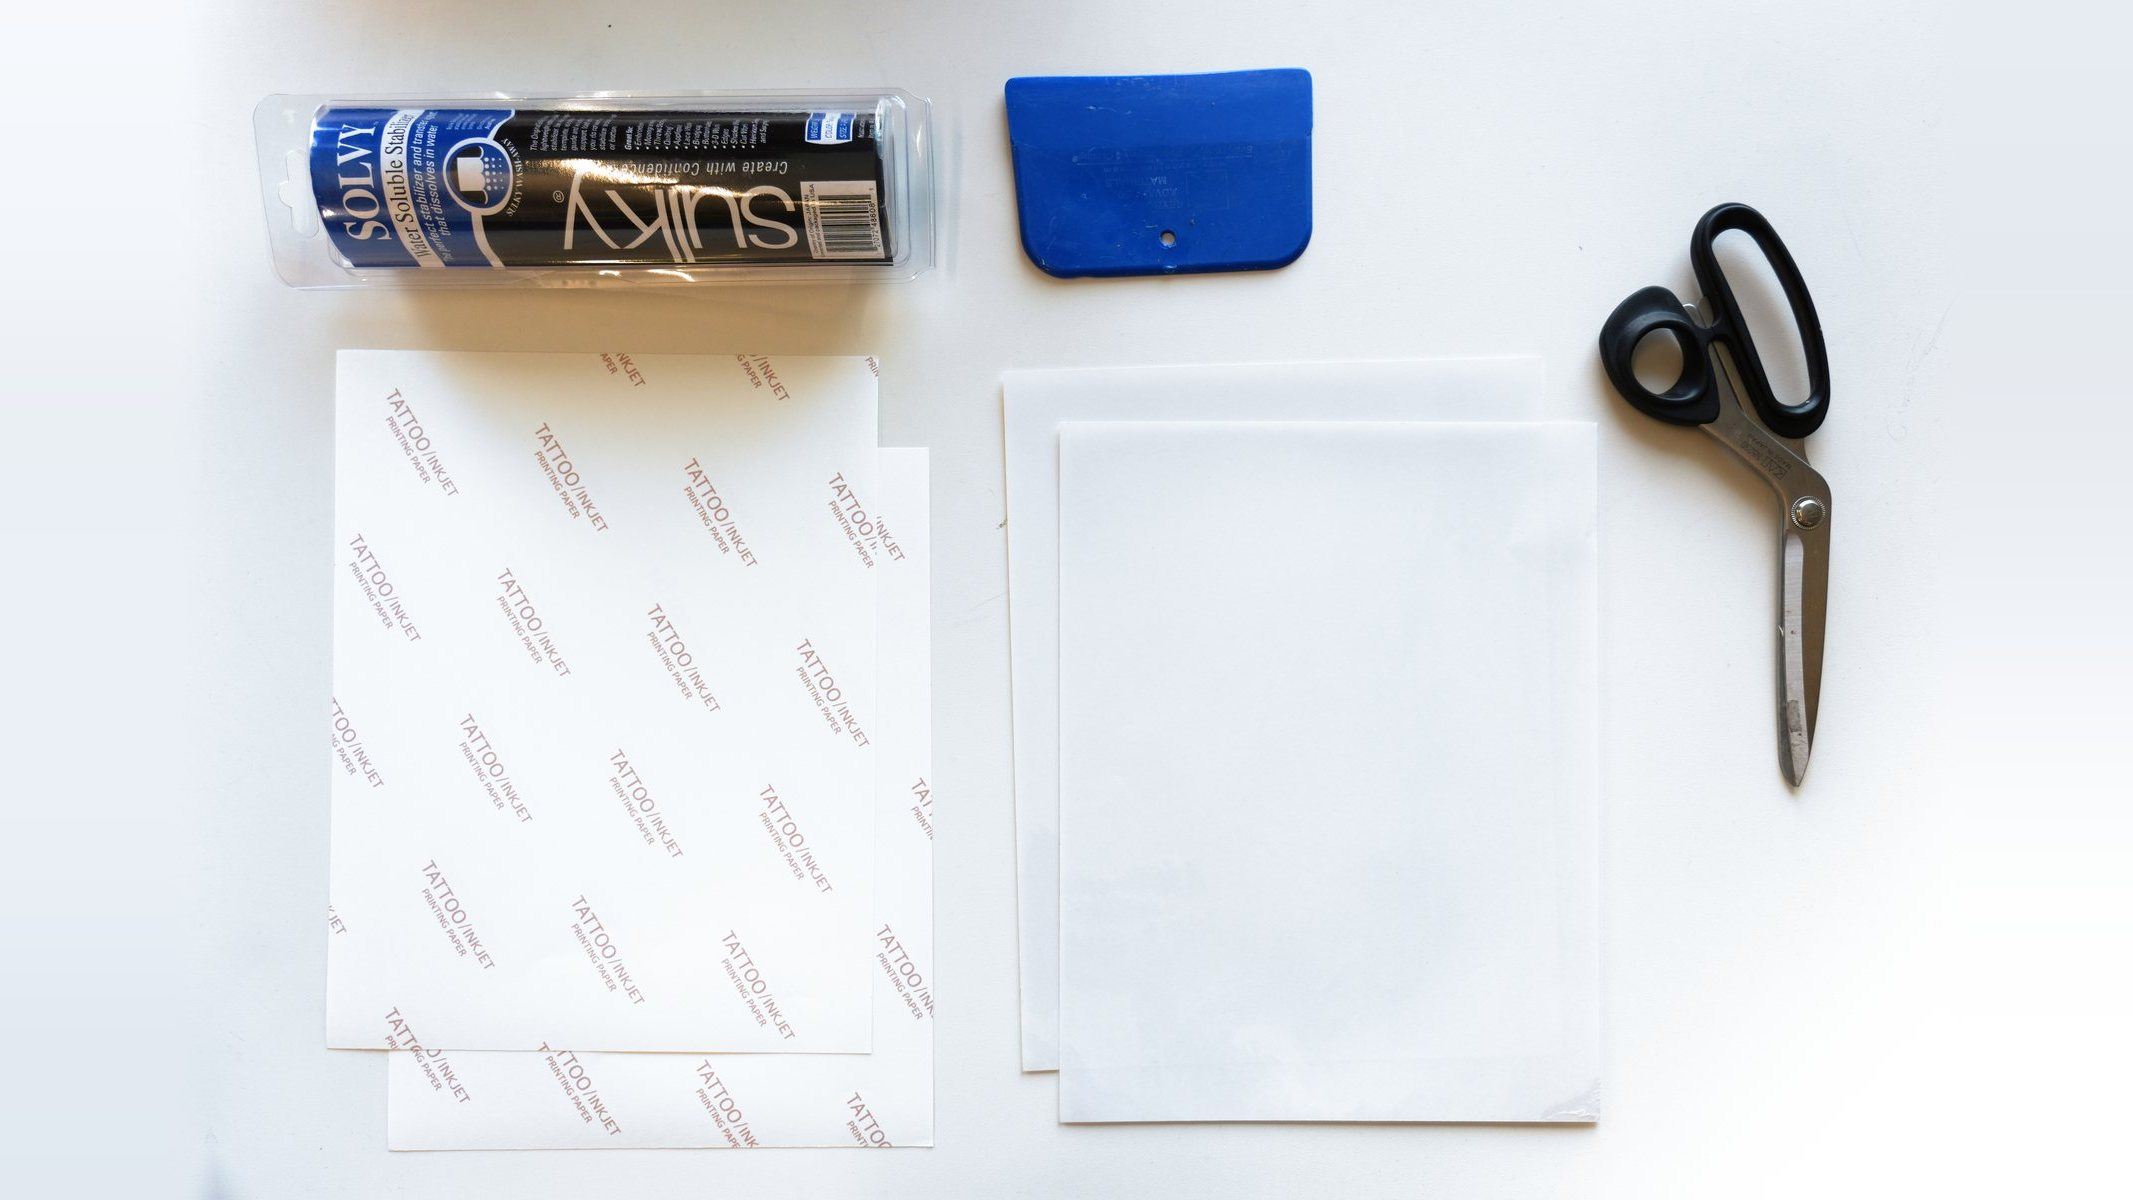
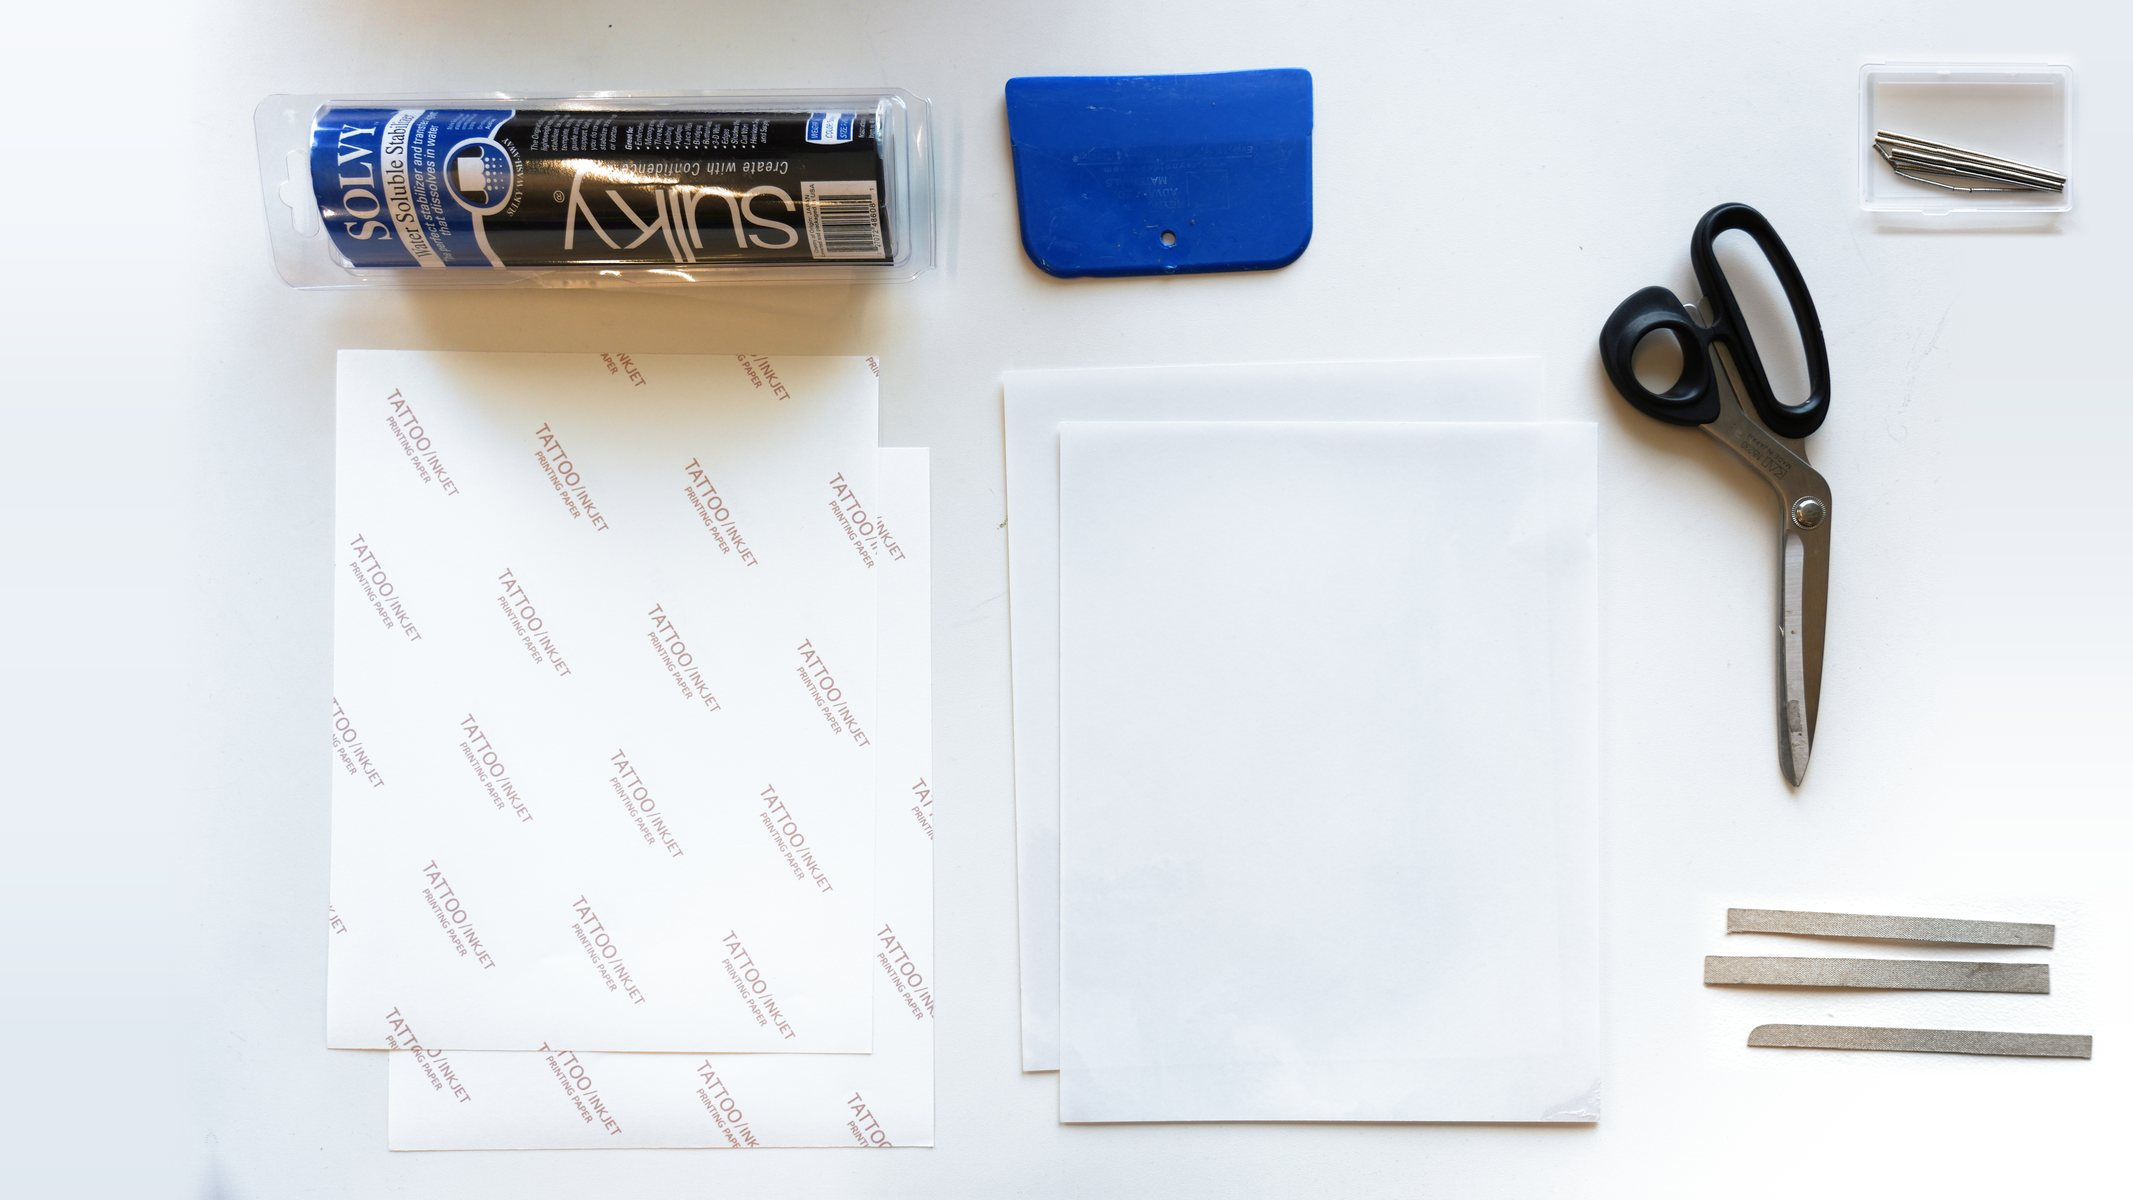
Composite magnets and conductive tape into make overview; move Done next to step title; drop mirror and decorations (#6)
Claude-Session: https://claude.ai/code/session_01WudS1B1csvbb2Nrs86TABJ

diff --git a/content.js b/content.js
@@ -115,9 +115,7 @@ window.SKINKIT = {
       { name: "Circuit modules", note: "The colored blocks, 2 × 2 cm each.", image: "images/mat-circuit-modules.jpg" },
       { name: "Wire modules", note: "Diamond pieces of skin cloth with three metal lines and magnets." },
       { name: "Double-sided tape", note: "Regular tape to fix your layout, and medical-grade tape (e.g. Vapon clear tape) for your skin.", image: "images/mat-tape.jpg" },
-      { name: "Scissors and tweezers", note: "Tweezers help separate the tiny magnets." },
-      { name: "Mirror", note: "To check the placement on your body." },
-      { name: "Decorations (optional)", note: "Washi tape, stickers, gems, markers." }
+      { name: "Scissors and tweezers", note: "Tweezers help separate the tiny magnets." }
     ]
   },
 
@@ -141,7 +139,9 @@ window.SKINKIT = {
           { item: "Plastic scraper", x: 47, y: 4, w: 15, h: 19 },
           { item: "Temporary tattoo paper", x: 15, y: 28, w: 29, h: 69 },
           { label: "Adhesive sheets", text: "Come in the tattoo paper package. One goes on the shiny side of each tattoo paper.", image: "images/mat-adhesive.jpg", x: 47, y: 29, w: 28, h: 66 },
-          { label: "Scissors", text: "For cutting the stabilizer to the size of the paper.", x: 74, y: 16, w: 12, h: 51 }
+          { label: "Scissors", text: "For cutting the stabilizer to the size of the paper.", x: 74, y: 16, w: 12, h: 51 },
+          { item: "Mini magnets", x: 87.5, y: 5.3, w: 9.8, h: 13.8 },
+          { item: "Conductive fabric tape", x: 81, y: 75.8, w: 17.3, h: 12.9 }
         ]
       } },
     { chapter: "m1", shot: "1-02", title: "Add adhesive to two tattoo papers", text: "Take two sheets of temporary tattoo paper. On the shiny silicone side of each, apply the double-sided adhesive sheet that comes in the package.", tip: "", media: null },
@@ -170,7 +170,7 @@ window.SKINKIT = {
     { chapter: "u3", shot: "3-02", title: "Lay out the wire modules", text: "Fit the diamond wire modules together into the shape you want. Use the cross-shaped piece to turn a corner or split the circuit in two, and blank pieces for decoration.", tip: "", media: null },
     { chapter: "u3", shot: "3-03", title: "Pick a connection", text: "On curved spots, connect two pieces that have flaps and set the module on the flaps, so it stays connected when you bend. On flat spots, use flat pieces for a slimmer look. To extend the circuit without a module, fold a flap onto a flat piece.", tip: "", media: null },
     { chapter: "u3", shot: "3-04", title: "Preview it on your body", text: "Hold the device on your body and look in the mirror. Rearrange pieces or swap modules until you like it.", tip: "", media: null },
-    { chapter: "u3", shot: "3-05", title: "Make it permanent and decorate", text: "When the layout is final, secure the joints between wire modules with double-sided tape. Then decorate it however you like.", tip: "Keep decorations off the magnets and metal lines so the circuit still works.", media: null },
+    { chapter: "u3", shot: "3-05", title: "Make it permanent and decorate", text: "When the layout is final, secure the joints between wire modules with double-sided tape. Then, if you like, decorate it with washi tape, stickers, gems or markers.", tip: "Keep decorations off the magnets and metal lines so the circuit still works.", media: null },
     { chapter: "u3", shot: "3-06", title: "Put it on", text: "Apply medical-grade double-sided tape to the back and press the device onto clean, dry skin. Switch on the power and try it out.", tip: "", media: null },
     { chapter: "u3", shot: "3-07", title: "Take it off", text: "TODO: how to remove it gently and store the modules for reuse.", tip: "The circuit modules are reusable: unsnap them for your next project.", media: null }
   ],

diff --git a/index.html b/index.html
@@ -100,11 +100,13 @@
           <article class="sk-step">
             <p class="sk-step-meta" id="sk-step-meta"></p>
             <div class="sk-media sk-media--wide" id="sk-step-media"></div>
-            <h2 class="sk-step-title" id="sk-step-title"></h2>
+            <div class="sk-step-head">
+              <h2 class="sk-step-title" id="sk-step-title"></h2>
+              <label class="sk-done" for="sk-step-done"><input type="checkbox" id="sk-step-done"> Done</label>
+            </div>
             <p class="sk-step-text" id="sk-step-text"></p>
             <div class="sk-materials" id="sk-step-materials" hidden></div>
             <p class="sk-tip" id="sk-step-tip"></p>
-            <label class="sk-done" for="sk-step-done"><input type="checkbox" id="sk-step-done"> I did this step</label>
             <div class="sk-step-nav">
               <button class="sk-btn sk-btn--ghost" id="sk-prev" type="button">Back</button>
               <span class="sk-hint">or use the ← → keys</span>

diff --git a/style.css b/style.css
@@ -221,7 +221,9 @@
 .sk-pop--below img { grid-row: span 2; }
 .sk-tip { border-left: 1px solid var(--sk-text); padding-left: 15px; font-style: italic; }
 .sk-tip:empty { display: none; }
-.sk-done { display: inline-flex; gap: 8px; align-items: center; font-size: 14px; }
+.sk-step-head { display: flex; justify-content: space-between; align-items: baseline; gap: 16px; }
+.sk-done { display: inline-flex; gap: 6px; align-items: center; font-size: 13.5px; color: var(--sk-text); white-space: nowrap; cursor: pointer; flex: none; }
+.sk-done input { accent-color: var(--sk-heading); }
 .sk-step-nav { display: flex; justify-content: space-between; align-items: center; gap: 12px; margin-top: 12px; padding-top: 20px; border-top: 1px solid var(--sk-rule); }
 .sk-hint { font-size: 13px; color: var(--sk-meta); }
 
